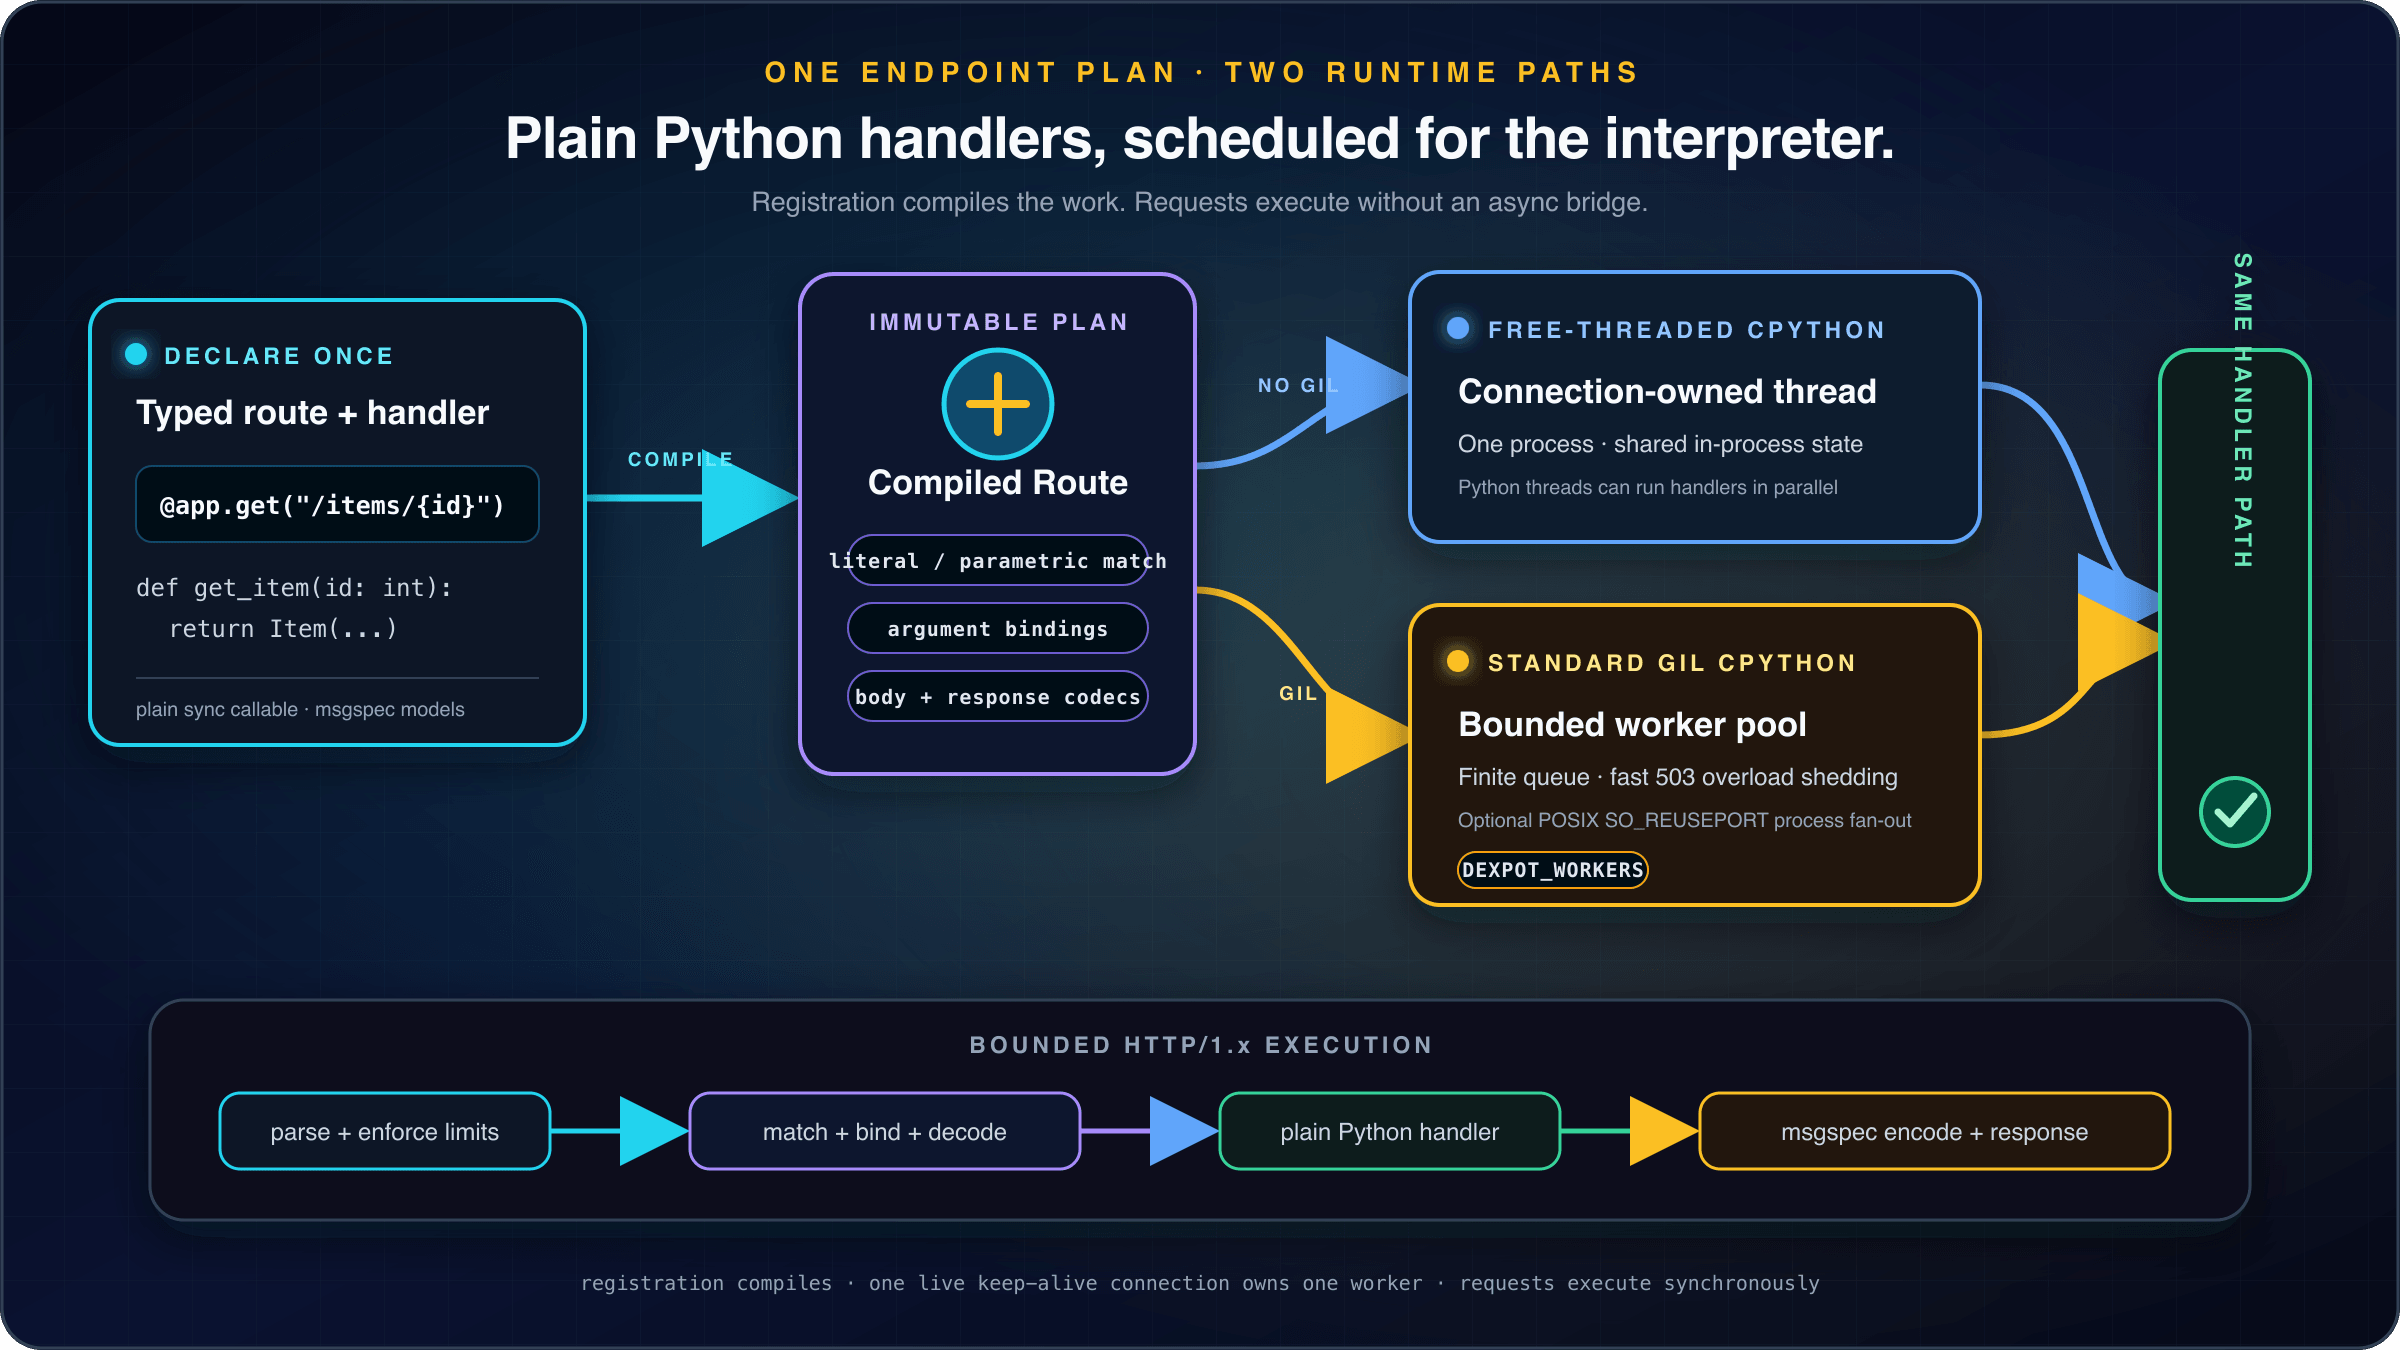
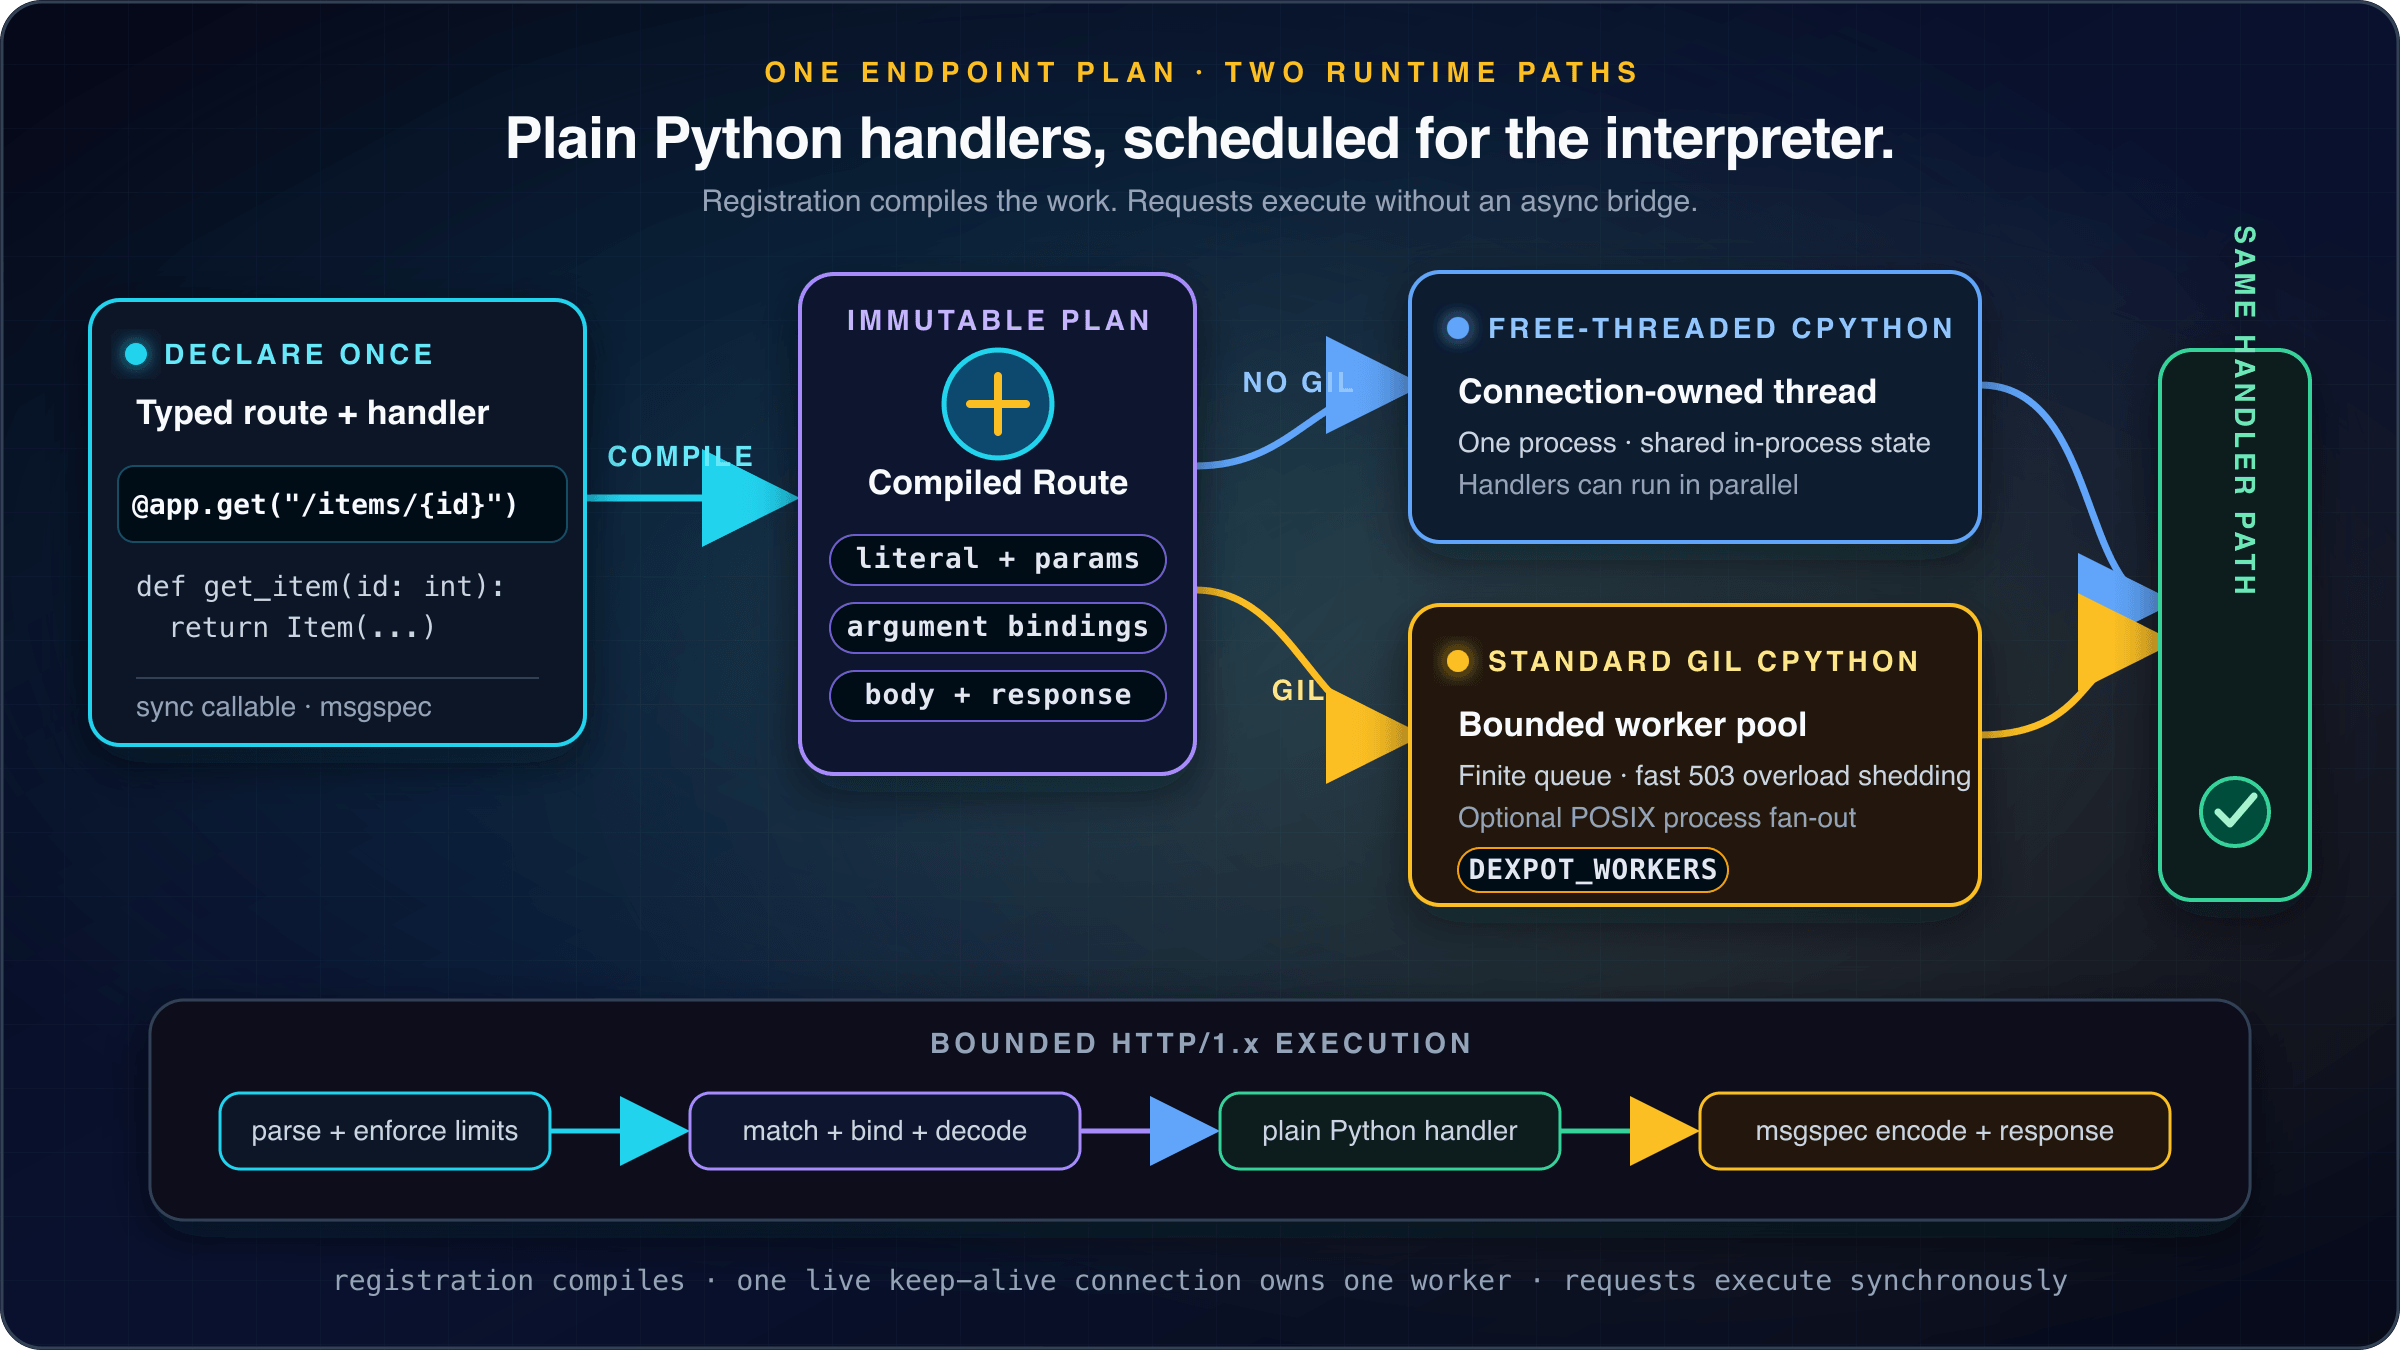
docs: address diagram review feedback

diff --git a/tests/test_docs.py b/tests/test_docs.py
@@ -75,10 +75,14 @@ def test_readme_execution_diagram_is_rendered_and_editable() -> None:
     assert "ONE ENDPOINT PLAN · TWO RUNTIME PATHS" in source
     assert "FREE-THREADED CPYTHON" in source
     assert "STANDARD GIL CPYTHON" in source
+    font_sizes = [int(size) for size in re.findall(r"font-size:\s*(\d+)px", source)]
+    assert font_sizes
+    assert min(font_sizes) >= 28
+    assert "literal + params" in source
+    assert "literal / parametric match" not in source
     assert (
         'src="https://raw.githubusercontent.com/tugrulguner/dexpot/'
-        "183a4e9b304b95d3f0986d3c06348ea65b8c2cce/docs/assets/"
-        'dexpot-execution.png"' in text
+        'main/docs/assets/dexpot-execution.png"' in text
     )
     assert 'width="960"' in text
 

diff --git a/README.md b/README.md
@@ -34,7 +34,7 @@
 </p>
 
 <p align="center">
-  <img src="https://raw.githubusercontent.com/tugrulguner/dexpot/183a4e9b304b95d3f0986d3c06348ea65b8c2cce/docs/assets/dexpot-execution.png" alt="A dexpot route compiles once into an immutable endpoint plan, then uses either a connection-owned thread on free-threaded CPython or a bounded worker pool with optional process fan-out on standard GIL CPython before both paths execute the same synchronous handler pipeline" width="960">
+  <img src="https://raw.githubusercontent.com/tugrulguner/dexpot/main/docs/assets/dexpot-execution.png" alt="A dexpot route compiles once into an immutable endpoint plan, then uses either a connection-owned thread on free-threaded CPython or a bounded worker pool with optional process fan-out on standard GIL CPython before both paths execute the same synchronous handler pipeline" width="960">
 </p>
 
 ## Why dexpot
